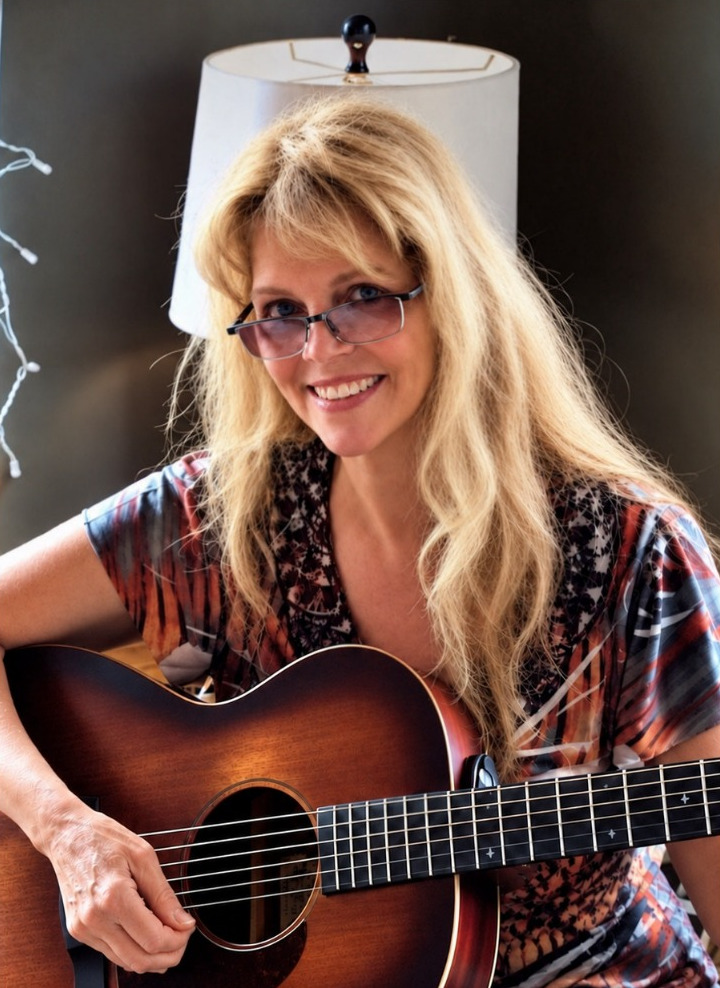
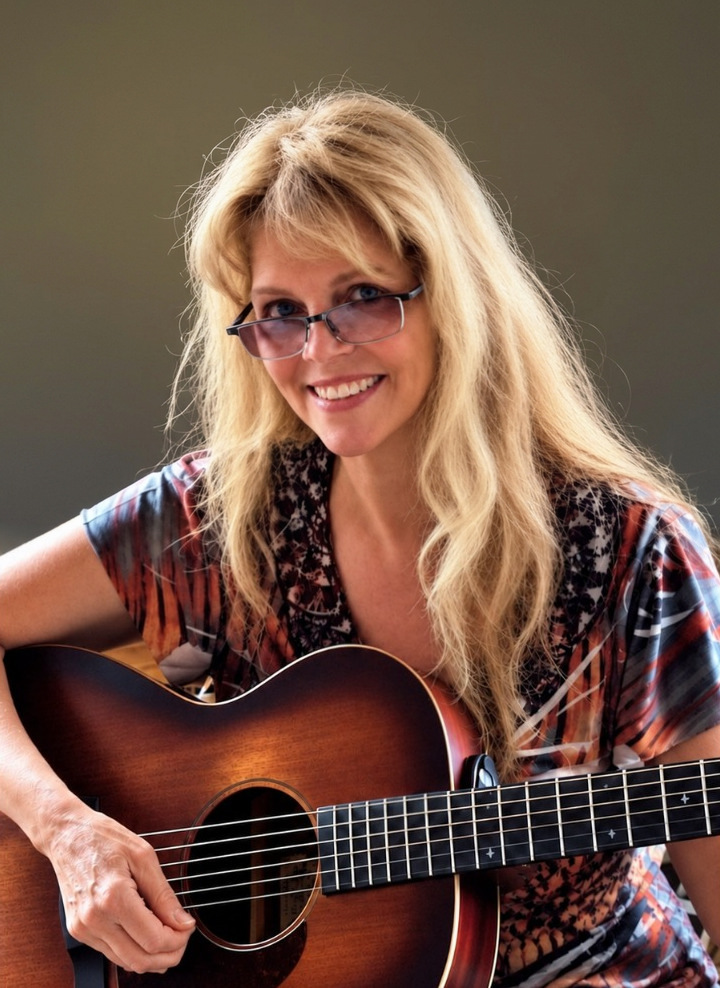
Remove background lamp and string lights from Contact portrait

Changed region(s): [[0.0, 0.0, 1.0, 0.5466], [0.0917, 0.5162, 0.1528, 0.5466]]

diff --git a/index.html b/index.html
@@ -29,8 +29,8 @@
   <link rel="preconnect" href="https://fonts.googleapis.com">
   <link rel="preconnect" href="https://fonts.gstatic.com" crossorigin>
   <link rel="stylesheet" href="https://fonts.googleapis.com/css2?family=Karla:wght@400;500;600;700;800&family=Plus+Jakarta+Sans:wght@600;700;800&display=swap">
-  <link rel="stylesheet" href="styles.css?v=20261102ap">
-  <script defer src="site.js?v=20261102ap"></script>
+  <link rel="stylesheet" href="styles.css?v=20261102aq">
+  <script defer src="site.js?v=20261102aq"></script>
   <script type="application/ld+json">
   {
     "@context": "https://schema.org",
@@ -576,7 +576,7 @@
             </form>
           </div>
           <figure class="contact-photo">
-            <img src="images/contact-reb.jpg?v=20261102ak" alt="Reb Yen smiling with her acoustic guitar" width="720" height="988" loading="lazy">
+            <img src="images/contact-reb.jpg?v=20261102aq" alt="Reb Yen smiling with her acoustic guitar" width="720" height="988" loading="lazy">
           </figure>
         </div>
       </div>

diff --git a/thanks.html b/thanks.html
@@ -29,8 +29,8 @@
   <link rel="preconnect" href="https://fonts.googleapis.com">
   <link rel="preconnect" href="https://fonts.gstatic.com" crossorigin>
   <link rel="stylesheet" href="https://fonts.googleapis.com/css2?family=Karla:wght@400;500;600;700;800&family=Plus+Jakarta+Sans:wght@600;700;800&display=swap">
-  <link rel="stylesheet" href="styles.css?v=20261102ap">
-  <script defer src="site.js?v=20261102ap"></script>
+  <link rel="stylesheet" href="styles.css?v=20261102aq">
+  <script defer src="site.js?v=20261102aq"></script>
   <script type="application/ld+json">
   {
     "@context": "https://schema.org",
